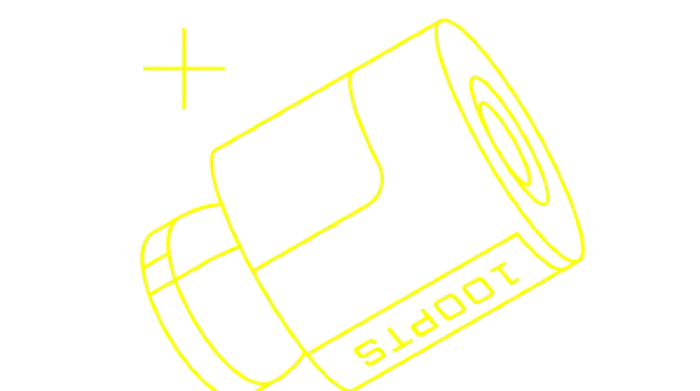
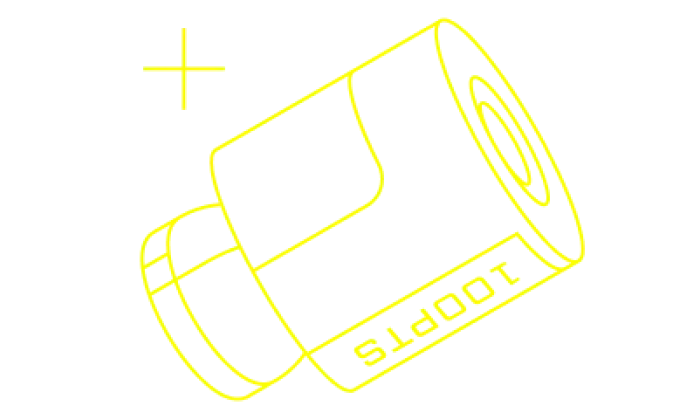
feat(homepage): step cards alignment

Changed region(s): [[0.18, 0.0307, 0.84, 1.0], [0.18, 0.1535, 0.33, 0.1841], [0.24, 0.2455, 0.27, 0.2762]]

diff --git a/frontend/src/app/homepage/step-card/step-card.component.scss b/frontend/src/app/homepage/step-card/step-card.component.scss
@@ -1,15 +1,23 @@
 :host {
-  @apply relative flex flex-col justify-start items-start gap-y-8 text-pale;
+  @apply relative flex flex-col justify-between items-start gap-y-8 text-pale;
 
-  .label {
-    @apply text-lg font-bold uppercase;
+  .textual {
+    @apply flex flex-col justify-start items-start gap-y-8;
+
+    .label {
+      @apply text-lg font-bold uppercase;
+    }
+
+    .description {
+      @apply text-sm;
+    }
   }
 
-  .description {
-    @apply text-sm;
+  img {
+    @apply w-full;
   }
 
   .card-number {
-    @apply text-yellow text-lg border-pale border rounded-full text-center w-[40px] aspect-square p-3 absolute right-[calc(100%+1rem)] top-0;
+    @apply text-yellow text-lg border-pale/30 border rounded-full text-center w-[40px] aspect-square absolute right-[calc(100%+1rem)] -top-1 flex justify-center items-center font-bold;
   }
 }

diff --git a/frontend/src/app/homepage/step-card/step-card.component.html b/frontend/src/app/homepage/step-card/step-card.component.html
@@ -1,9 +1,11 @@
-<p class="label">
-  {{ label }}
-</p>
-<p class="description">
-  {{ description }}
-</p>
+<div class="textual">
+  <p class="label">
+    {{ label }}
+  </p>
+  <p class="description">
+    {{ description }}
+  </p>
+</div>
 <img [src]="img" />
 <p class="card-number">
   {{ cardNumber }}
